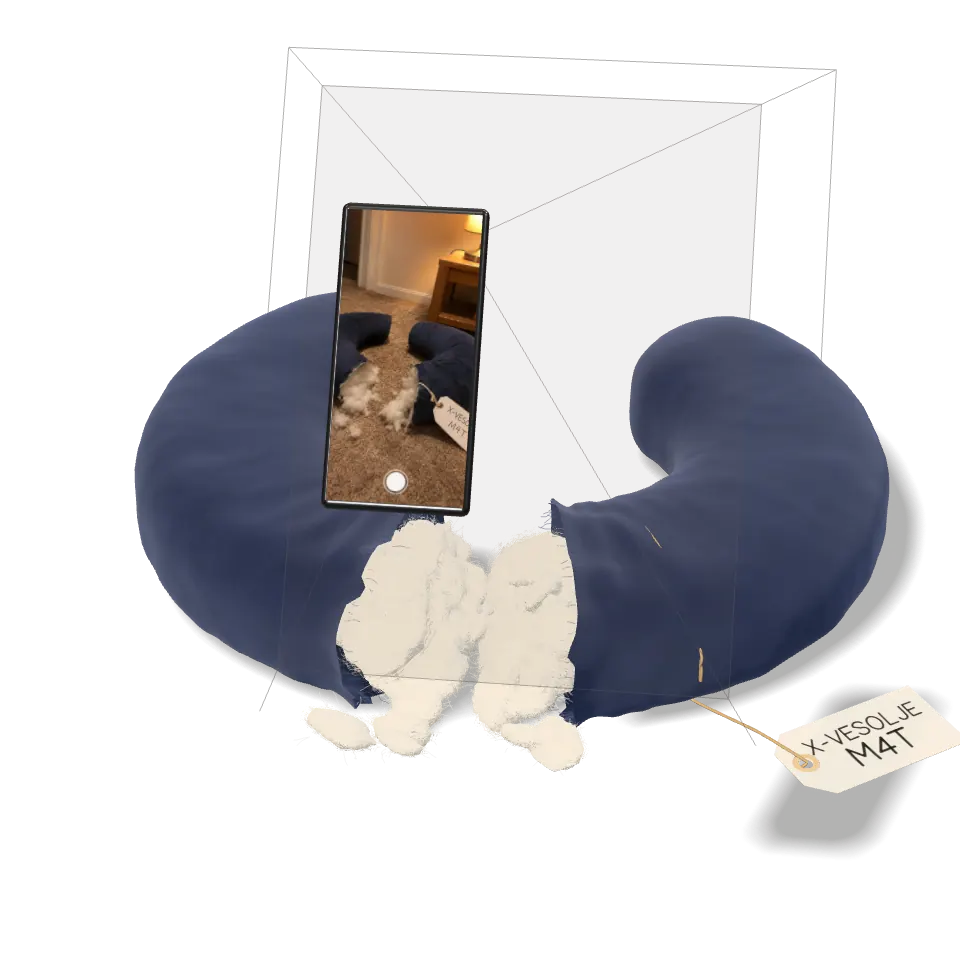
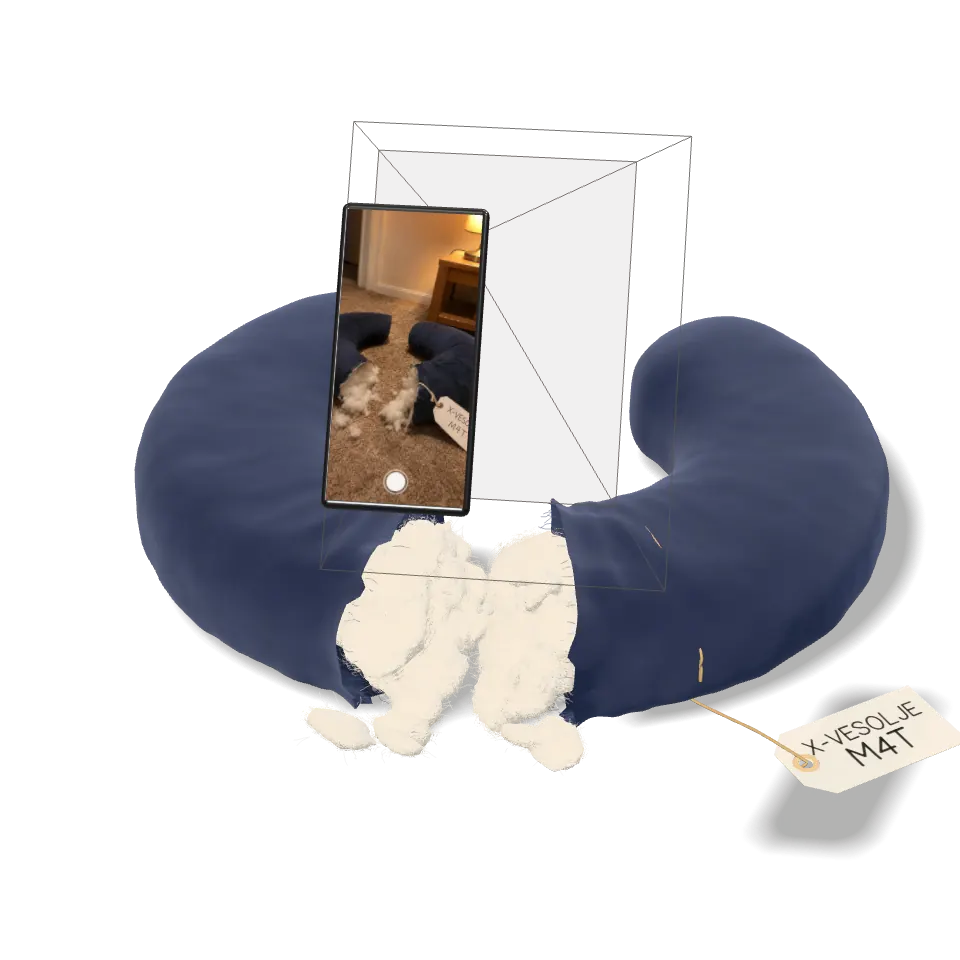
Homepage fixes from the second visitor pass
- Rail: entrance stagger settles before the #how anchor, so a deep link or nav
  click lands with 01-05 aligned; the wheel-in entrance still plays.
- Exhibit chapter 01: the mock 'Log in with PayPal' is drawn as a quiet button,
  not a copy of the amber primary CTA.
- Pinned story holds: consent steps light in turn across 01, the code, tag and
  shot list are spread across 02 with the session timer counting down, the rail
  edge fills through each beat, and 03 gets a side callout (what the photo must
  show, lighting as the pillow is cut) instead of an empty right column.
- Console still: no row hover highlight; the footer says how many claims the
  frame shows against the tab count.
- 'PayPal Payouts batch' tag now points at the ledger's paid-through-PayPal
  figure, in both the grid and the static replica.
- Check 1 frustum: stronger lines and a frame that floats clear of the evidence,
  so nothing cuts through the stuffing; live posters re-rendered.
- Hero: the sandbox note and facts focus in after the headline and CTAs.
- Rule box: 'the model never moves money' no longer wraps a lone word.

Changed region(s): [[0.8438, 0.0625, 0.875, 0.0938]]

diff --git a/src/components/home/custody/chapters.tsx b/src/components/home/custody/chapters.tsx
@@ -3,10 +3,10 @@
 import clsx from "clsx";
 import Image from "next/image";
 import { motion, useMotionValue, useMotionValueEvent, useTransform, type MotionValue } from "motion/react";
-import { createContext, useContext, useState } from "react";
+import { createContext, useContext, useState, type ReactNode } from "react";
 import { AlertIcon, ClockIcon, Money, Paper, SPRING, StatusPill } from "@/components/ui";
 import { RemedyMark } from "@/components/ui/Wordmark";
-import { CLAIM, CODE_AT, CONSOLE_ROWS, WRITE_AT } from "./claim";
+import { CLAIM, CODE_AT, CONSENT_AT, CONSOLE_ROWS, SHOT_AT, WRITE_AT } from "./claim";
 
 // The five chapters of the Chain of Custody, as presentational copies of the real claim screens. Each one is drawn from
 // a scroll progress `p` (0 to 1 over the whole runway, spec H2); a progress fixed at 1 (useDone) gives every chapter's
@@ -38,6 +38,16 @@ const clamp01 = (v: number) => Math.min(1, Math.max(0, v));
 const ramp = (v: number, a: number, b: number) => clamp01((v - a) / (b - a));
 const outQuart = (t: number) => 1 - (1 - t) ** 4;
 
+/** A line that lights from 35% once the progress passes `at`, so a step can come up in its turn. Lit at rest. */
+function Lit({ p, at, className, children }: { p?: Progress; at: number; className?: string; children: ReactNode }) {
+  const done = useDone();
+  const opacity = useTransform(p ?? done, (v) => 0.35 + 0.65 * ramp(v, at, at + 0.012));
+  return (
+    <motion.span className={className} style={{ opacity }}>
+      {children}
+    </motion.span>
+  );
+}
 
 function RefundLine() {
   return (
@@ -55,7 +65,8 @@ function RefundLine() {
 
 const CONSENT_STEPS = ["Cut it in half, as the notice says", "Write your one-time code on a tag and photograph it here", "Paid to your PayPal, usually within a minute"];
 
-export function ConsentChapter() {
+/** `p` lights the steps in turn (the pinned laptop); without it they are all lit. */
+export function ConsentChapter({ p }: { p?: Progress }) {
   const compact = useContext(Compact);
   return (
     <div className="@container">
@@ -112,12 +123,21 @@ export function ConsentChapter() {
           >
             {CONSENT_STEPS.map((s, i) => (
               <li key={s} className="relative grid grid-cols-[1.75rem_minmax(0,1fr)] items-baseline text-ui font-medium">
-                <span className="relative bg-bg font-mono text-micro text-faint @min-[720px]:bg-surface">{String(i + 1).padStart(2, "0")}</span>
-                {s}
+                <span className="relative bg-bg font-mono text-micro text-faint @min-[720px]:bg-surface">
+                  <Lit p={p} at={CONSENT_AT[i]}>
+                    {String(i + 1).padStart(2, "0")}
+                  </Lit>
+                </span>
+                <Lit p={p} at={CONSENT_AT[i]}>
+                  {s}
+                </Lit>
               </li>
             ))}
           </ol>
-          <span className="flex h-12 items-center justify-center rounded-control bg-accent text-body font-medium text-accent-ink">Log in with PayPal</span>
+          {/* A picture of the claim page's button, so it is drawn quiet: the amber stays on the page's real actions. */}
+          <span className="flex h-12 items-center justify-center rounded-control bg-surface-2 text-body font-medium text-muted shadow-[inset_0_0_0_1px_var(--line-2)]">
+            Log in with PayPal
+          </span>
         </div>
       </div>
     </div>
@@ -140,9 +160,16 @@ function CodeCell({ p, at, char }: { p: Progress; at: number; char: string }) {
 
 const SHOT_LIST = ["The X-VESOLJE tag", "The pillow cut fully in half", `The code ${CLAIM.code}, on the tag`];
 
+/** The 10-minute camera session, counting down through the beat to where the static figure rests (9:42). */
+const sessionLeft = (v: number) => {
+  const s = Math.round(600 - 18 * ramp(v, 0.34, 0.48));
+  return `${Math.floor(s / 60)}:${String(s % 60).padStart(2, "0")}`;
+};
+
 export function CodeChapter({ p }: { p: Progress }) {
   const compact = useContext(Compact);
   const swung = useAfter(p, 0.34);
+  const left = useTransform(p, sessionLeft);
   const wipe = useTransform(p, (v) => `inset(-0.2em ${((1 - ramp(v, WRITE_AT[0], WRITE_AT[1])) * 100).toFixed(2)}% -0.2em 0)`);
   return (
     <div className="@container">
@@ -152,7 +179,7 @@ export function CodeChapter({ p }: { p: Progress }) {
             <p className="text-title font-medium">Your one-time code</p>
             <span className="inline-flex h-7 shrink-0 items-center gap-1.5 rounded-full border border-line px-2.5 font-mono text-ui text-muted tabular-nums">
               <ClockIcon size={14} />
-              9:42
+              <motion.span>{left}</motion.span>
             </span>
           </div>
           <div className="flex gap-2" aria-hidden="true">
@@ -166,8 +193,12 @@ export function CodeChapter({ p }: { p: Progress }) {
             <ol className="flex flex-col gap-1.5">
               {SHOT_LIST.map((s, i) => (
                 <li key={s} className="grid grid-cols-[1.75rem_minmax(0,1fr)] items-baseline text-ui">
-                  <span className="font-mono text-micro text-faint">{String(i + 1).padStart(2, "0")}</span>
-                  {s}
+                  <Lit p={p} at={SHOT_AT[i]} className="font-mono text-micro text-faint">
+                    {String(i + 1).padStart(2, "0")}
+                  </Lit>
+                  <Lit p={p} at={SHOT_AT[i]}>
+                    {s}
+                  </Lit>
                 </li>
               ))}
             </ol>

diff --git a/src/components/home/custody/CustodyStage.tsx b/src/components/home/custody/CustodyStage.tsx
@@ -36,20 +36,33 @@ function Layer({ p, i, compact, children }: { p: Progress; i: number; compact: b
   );
 }
 
+/** Where each rail item's entrance starts after RAIL_IN, and how long it takes: the last one has settled by 0.201, ahead
+ * of the #how anchor (0.215), so a jump there never lands mid-entrance. */
+const RAIL_STAGGER = 0.004;
+const RAIL_ENTER = 0.015;
+
 function RailItem({ p, i }: { p: Progress; i: number }) {
   const c = CHAPTERS[i];
-  // Enters 0.16 to 0.21, once the backdrop has covered the page rail behind it, then 100% while its chapter is on
+  // Enters 0.17 to 0.20, once the backdrop has covered the page rail behind it, then 100% while its chapter is on
   // screen, else 35%.
+  const enter = (v: number) => clamp01((v - RAIL_IN - i * RAIL_STAGGER) / RAIL_ENTER);
   const opacity = useTransform(p, (v) => {
-    const enter = clamp01((v - RAIL_IN - i * 0.008) / 0.02);
     const on = Math.max(share(v, i), i === 4 ? share(v, 5) : 0);
-    return enter * (0.35 + 0.65 * on);
+    return enter(v) * (0.35 + 0.65 * on);
   });
-  const x = useTransform(p, (v) => Math.round(-12 * (1 - clamp01((v - RAIL_IN - i * 0.008) / 0.02))));
-  const lead = useTransform(p, (v) => Math.max(share(v, i), i === 4 ? share(v, 5) : 0));
+  const x = useTransform(p, (v) => Math.round(-12 * (1 - enter(v))));
+  // The amber edge marks the chapter on screen, and for 01 and 02 fills down from a quarter through the chapter's
+  // beat (01 from the end of the dolly), so a long hold always shows progress. Chapters 03 to 05 are under the exhibit;
+  // 05's edge marks the console.
+  const lead = useTransform(p, (v) => {
+    const on = Math.max(share(v, i), i === 4 ? share(v, 5) : 0);
+    if (i >= 2) return on;
+    const from = i === 0 ? HANDOFF[1] : STARTS[i];
+    return on * (0.25 + 0.75 * clamp01((v - from) / (STARTS[i + 1] - OUT[0] - from)));
+  });
   return (
     <motion.li className="relative grid grid-cols-[2.25rem_minmax(0,1fr)] items-baseline py-2.5" style={{ opacity, x }}>
-      <motion.span className="absolute inset-y-1.5 -left-4 w-0.5 rounded-full bg-accent" style={{ scaleY: lead, originY: 0.5 }} />
+      <motion.span className="absolute inset-y-1.5 -left-4 w-0.5 rounded-full bg-accent" style={{ scaleY: lead, originY: 0 }} />
       <span className="font-mono text-micro text-faint">{c.n}</span>
       <span className="text-body font-medium">{c.title}</span>
     </motion.li>
@@ -163,7 +176,7 @@ export function CustodyStage({ p, stage, skip }: CustodyStageProps) {
           <div className="relative min-h-0 flex-1">
             <Compact.Provider value={compact}>
               <Layer p={p} i={0} compact={compact}>
-                <ConsentChapter />
+                <ConsentChapter p={p} />
               </Layer>
               <Layer p={p} i={1} compact={compact}>
                 <CodeChapter p={p} />

diff --git a/src/components/home/teardown/scene/parts.ts b/src/components/home/teardown/scene/parts.ts
@@ -221,6 +221,9 @@ export interface Phone {
   lens(out: T.Vector3): T.Vector3;
 }
 
+/** How far down the view, as a share of the lens-to-evidence distance, the frustum's frame floats. */
+const FRUSTUM_FAR = 0.45;
+
 export function buildPhone(THREE: Three, photo: T.Texture): Phone {
   const group = new THREE.Group();
   const bw = 0.072;
@@ -310,14 +313,15 @@ export function buildPhone(THREE: Three, photo: T.Texture): Phone {
     group.updateMatrixWorld(true);
     return group.localToWorld(out.copy(lensLocal));
   };
-  // The camera's view as a frustum gizmo: from the lens to a 3:4 portrait frame at the evidence's distance, 48
-  // degrees tall, so the frame just holds the cut pillow (as the RM-0442 photo does).
+  // The camera's view as a frustum gizmo: from the lens to a 3:4 portrait frame, 48 degrees tall, so seen from the
+  // lens the frame just holds the cut pillow (as the RM-0442 photo does). The frame floats a little over half way
+  // down, clear of the evidence: at the evidence's own distance it cut through the stuffing and read as a seam.
   group.updateMatrixWorld(true);
   const o = lens(new THREE.Vector3());
   const ax = new THREE.Vector3(1, 0, 0).transformDirection(group.matrixWorld);
   const ay = new THREE.Vector3(0, 1, 0).transformDirection(group.matrixWorld);
   const az = new THREE.Vector3(0, 0, 1).transformDirection(group.matrixWorld);
-  const far = o.distanceTo(new THREE.Vector3(0, 0.04, 0.02)) * 0.92;
+  const far = o.distanceTo(new THREE.Vector3(0, 0.04, 0.02)) * FRUSTUM_FAR;
   const tv = Math.tan((48 / 2) * (Math.PI / 180));
   const th = tv * 0.75;
   const frameAt = (dist: number) =>
@@ -351,7 +355,7 @@ export function buildPhone(THREE: Three, photo: T.Texture): Phone {
         const b = corners[(i + 1) % 4];
         pts.push(a.x, a.y, a.z, b.x, b.y, b.z);
       }
-    // The scan: the frame's cross-section travels from the lens to the evidence and through it.
+    // The scan: the frame's cross-section travels from the lens down to the frame.
     const s = Math.max(0, Math.min(1, scan));
     const on = open > 0.5 && s > 0 && s < 1;
     const q = frameAt(far * (0.12 + 0.88 * s));
@@ -371,7 +375,7 @@ export function buildPhone(THREE: Three, photo: T.Texture): Phone {
     );
     sheet.visible = on;
     sheetMat.opacity = 0.1 * Math.sin(Math.PI * s);
-    lineMat.opacity = 0.45 * open;
+    lineMat.opacity = 0.8 * open;
     lines.visible = open > 0.01;
   }
   return { group, lines, sheet, lineMat, sheetMat, pose, lens };

diff --git a/src/components/home/teardown/model.ts b/src/components/home/teardown/model.ts
@@ -100,7 +100,7 @@ export const HERO: Shot = {
 /** Each beat's shot, held while its part hangs open. The camera pushes in 6% over the hold. */
 export const SHOTS: Record<BeatId, Shot> = {
   intro: HERO,
-  // Behind and above the owner's phone: the phone in the foreground, its frustum running out to the evidence.
+  // Behind and above the owner's phone: the phone in the foreground, its frustum running out toward the evidence.
   live: { az: 8, el: 34, at: [0.0, 0.16, 0.2], rx: 0.42, ry: 0.32 },
   // The print, held up out to the left; from this side the pillow is out of the frame and the earlier prints stack
   // behind it.
@@ -173,8 +173,10 @@ export interface ExhibitState {
   charNow: number;
   /** Index of the check being shown (0 to 4), or -1. */
   active: number;
-  /** How visible the active check's callout is. */
+  /** How visible the side callout is: the active check's, or in the intro the photo being framed. */
   callout: number;
+  /** In the intro, how many of the three things the photo must show are in the frame so far (0 to 3). */
+  framed: number;
   /** Checks passed so far. */
   done: number;
   seconds: number | null;
@@ -187,6 +189,9 @@ export interface ExhibitState {
 }
 
 const CHECK_IDS = CHECKS.map((c) => c.id);
+
+/** Where in the intro each thing the photo must show comes into the frame: the tag, the cut, the code. */
+const FRAMED_AT = [0.3, 0.5, 0.7];
 
 export function stateAt(pIn: number): ExhibitState {
   const p = clamp01(pIn);
@@ -212,7 +217,9 @@ export function stateAt(pIn: number): ExhibitState {
     chars,
     charNow,
     active,
-    callout: active >= 0 ? opened(beat, p) : 0,
+    // The intro has a callout too (the photo being framed), so the side column is never empty while the pillow is cut.
+    callout: active >= 0 || beat === "intro" ? opened(beat, p) : 0,
+    framed: p > RANGES.intro[1] ? 3 : FRAMED_AT.filter((t) => local("intro", p) >= t).length,
     done,
     seconds: elapsed(p),
     decision: ruled ? "pay" : elapsed(p) === null ? "waiting" : "checking",

diff --git a/src/components/home/teardown/OpenedExhibit.tsx b/src/components/home/teardown/OpenedExhibit.tsx
@@ -234,7 +234,30 @@ function Readouts({ s }: { s: Pick<ExhibitState, "seconds" | "decision" | "done"
   );
 }
 
+/** What the owner's photo must show, as the claim page's camera lists it (the code chapter's shot list). */
+const FRAME_LIST = [`The ${EXHIBIT.label} tag`, "The pillow cut fully in half", `The code ${EXHIBIT.code}, on the tag`];
+
+/** The intro's callout: the owner cutting the pillow and framing it, each thing coming into the frame in turn. */
+function IntroCallout({ framed }: { framed: number }) {
+  return (
+    <div className={styles.callout}>
+      <p className="micro text-accent-text">In the claim page&rsquo;s camera</p>
+      <p className="mt-2 text-body font-medium text-text">The owner cuts the pillow and frames it, tag and all.</p>
+      <p className="mt-1 text-ui text-muted">Nothing is checked or paid until the photo is taken.</p>
+      <ol className="mt-4 flex flex-col gap-1.5">
+        {FRAME_LIST.map((f, i) => (
+          <li key={f} className={clsx("grid grid-cols-[1.75rem_minmax(0,1fr)] items-baseline text-ui transition-opacity duration-160", i < framed ? "opacity-100" : "opacity-35")}>
+            <span className="font-mono text-micro text-faint">{String(i + 1).padStart(2, "0")}</span>
+            {f}
+          </li>
+        ))}
+      </ol>
+    </div>
+  );
+}
+
 function Callout({ s }: { s: ExhibitState }) {
+  if (s.beat === "intro") return <IntroCallout framed={s.framed} />;
   const i = s.active;
   if (i < 0) return null;
   const c = CHECKS[i];
@@ -271,7 +294,7 @@ interface StageProps {
 }
 
 function discreteKey(s: ExhibitState) {
-  return [s.beat, s.active, s.done, s.chars, s.charNow, clock(s.seconds), s.decision, s.sent, s.stamped, s.receipt > 0].join("|");
+  return [s.beat, s.active, s.framed, s.done, s.chars, s.charNow, clock(s.seconds), s.decision, s.sent, s.stamped, s.receipt > 0].join("|");
 }
 
 function Stage({ p, mode, small, onSeek, chain = false, skip, capture }: StageProps) {

diff --git a/src/components/home/custody/claim.ts b/src/components/home/custody/claim.ts
@@ -52,11 +52,17 @@ export const CHAPTERS = [
   },
 ] as const;
 
-// The scroll thresholds (spec H2): when each code character appears. (Chapters 03 to 05, with the five checks and
-// their quotes, are the Opened Exhibit's: src/components/home/teardown/claim.ts.)
-export const CODE_AT = [0.35, 0.36, 0.37];
+// The scroll thresholds (spec H2), spread across each chapter's beat (01 is 0.2 to 0.34, 02 is 0.34 to 0.48 in
+// pace.ts) so no stretch of a hold is still. (Chapters 03 to 05, with the five checks and their quotes, are the Opened
+// Exhibit's: src/components/home/teardown/claim.ts.)
+/** 01: each consent step lights in turn, the first as the chapter settles (the #how anchor is at 0.215). */
+export const CONSENT_AT = [0.2, 0.255, 0.31];
+/** 02: when each code character appears. */
+export const CODE_AT = [0.352, 0.372, 0.392];
 /** The tag is written left to right after the last character appears. */
-export const WRITE_AT = [0.375, 0.397] as const;
+export const WRITE_AT = [0.398, 0.436] as const;
+/** Then what the photo must show lights in turn, leading into 03. */
+export const SHOT_AT = [0.432, 0.444, 0.456];
 
 // The console replica after the payout: the M4T claim slides in over sample claims the demo workspace starts with, with
 // the ids, codes, photos and reasons buildSeedClaims gives them (src/lib/demo/seed.ts, seed 27071), as in the "For

diff --git a/src/components/home/Companies.tsx b/src/components/home/Companies.tsx
@@ -32,10 +32,13 @@ export function Companies() {
         <FrameTag side="top" reach={10} style={{ left: 265, transform: "translateX(-50%)" }}>
           CPSC report draft · in your console
         </FrameTag>
-        {/* These two hang below the frame and point up into the grid area's foot: short leaders, nothing crossed. */}
-        <FrameTag side="bottom" reach={46} style={{ left: 612, transform: "translateX(-50%)" }}>
+        {/* Down past the empty end of the chrome and title rows onto the ledger's "paid through PayPal" figure. The
+            ledger sizes to its text from the frame's left padding, so one place holds at every laptop width, and x 520
+            is inside that figure in both the grid and the narrower static replica that stands in while it loads. */}
+        <FrameTag side="top" reach={98} style={{ left: 520, transform: "translateX(-50%)" }}>
           PayPal Payouts batch
         </FrameTag>
+        {/* This one hangs below the frame and points up into the grid area's foot: a short leader, nothing crossed. */}
         <FrameTag side="bottom" reach={46} style={{ right: 210, transform: "translateX(50%)" }}>
           Evidence panel
         </FrameTag>

diff --git a/src/components/home/Hero.tsx b/src/components/home/Hero.tsx
@@ -40,7 +40,7 @@ export function Hero() {
           Try a claim with sample photos
         </Button>
       </div>
-      <p className="mt-4 font-mono text-micro text-faint">
+      <p className={clsx("mt-4 font-mono text-micro text-faint", styles.focusIn)} style={line(3)}>
         Needs a PayPal sandbox personal account ·{" "}
         <a
           href={SANDBOX_ACCOUNTS_URL}
@@ -56,7 +56,7 @@ export function Hero() {
     </>
   );
   const facts = (
-    <dl className="grid gap-x-[var(--col-gap)] gap-y-3 sm:grid-cols-3">
+    <dl className={clsx("grid gap-x-[var(--col-gap)] gap-y-3 sm:grid-cols-3", styles.focusIn)} style={line(4)}>
       {FACTS.map((f) => (
         <div key={f.figure} className="grid grid-cols-[6.5rem_minmax(0,1fr)] items-baseline gap-x-3 sm:flex sm:flex-col sm:gap-1">
           <dt className="text-head-sm font-medium whitespace-nowrap">{f.figure}</dt>

diff --git a/src/components/console/ClaimsGridPreview.tsx b/src/components/console/ClaimsGridPreview.tsx
@@ -102,8 +102,12 @@ export function ClaimsGridPreview({ rows, openId, height, ledger, counts, panelC
           </div>
         )}
       </div>
+      {/* The tab counts cover every sample claim; the frame holds only the first few, so it says how many it shows. */}
       <p className="border-t border-line px-4 py-2 font-mono text-micro text-faint sm:px-5">
-        {tally.all} sample claims from the eval set · AI-made test photos · no money moved
+        {tab === "all"
+          ? `${shown.length < tally.all ? `${shown.length} of ` : ""}${tally.all} sample claims from the eval set`
+          : `${shown.length} of ${tally[tab]} ${TABS.find((t) => t.id === tab)?.label.toLowerCase()} shown · ${tally.all} sample claims from the eval set`}{" "}
+        · AI-made test photos · no money moved
       </p>
     </div>
   );

diff --git a/src/components/console/ClaimsGrid.tsx b/src/components/console/ClaimsGrid.tsx
@@ -294,6 +294,8 @@ export const ClaimsGrid = forwardRef<ClaimsGridHandle, ClaimsGridProps>(function
               focusTimer.current = window.setTimeout(() => onFocusRow(id), 120);
             }}
             rowClass={still ? undefined : "cursor-pointer"}
+            // Nor does a row light up under the pointer: the still's rows open nothing.
+            suppressRowHoverHighlight={still}
             // The homepage's still is a picture: no cell or header takes focus. In both, Tab leaves the grid in one step
             // (to the evidence panel and the footer); the arrow keys move between cells.
             suppressCellFocus={still}

diff --git a/src/components/home/Pipeline.tsx b/src/components/home/Pipeline.tsx
@@ -82,8 +82,7 @@ const SAMPLES: Sample[] = [
 
 const RULE = (
   <>
-    any &ldquo;no&rdquo; &rarr; reject <span className="text-faint">·</span> any &ldquo;unclear&rdquo; &rarr; hold <span className="text-faint">·</span> the model never moves
-    money
+    any &ldquo;no&rdquo; &rarr; reject <span className="text-faint">·</span> any &ldquo;unclear&rdquo; &rarr; hold <span className="text-faint">·</span> <span className="whitespace-nowrap">the model never moves money</span>
   </>
 );
 
